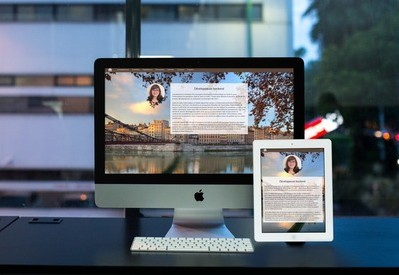
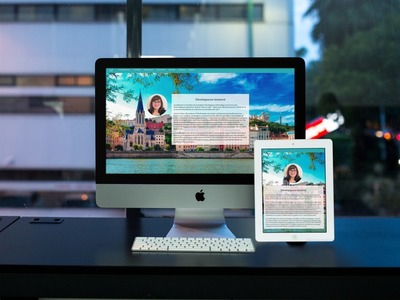
update screenshot and change link color

diff --git a/CSS/stylesheet.css b/CSS/stylesheet.css
@@ -216,17 +216,17 @@ h3 {
 
 a {
 	text-decoration: underline;
-	color: #1da8af;
+	color: #0b7177;
 }
 
 a:hover {
 	text-decoration: none;
-    color: #1da8af;
+    color: #0b7177;
 }
 
 a:visited {
 	text-decoration: none;
-    color: #1da8af;
+    color: #023538;
 }
 
 p {
